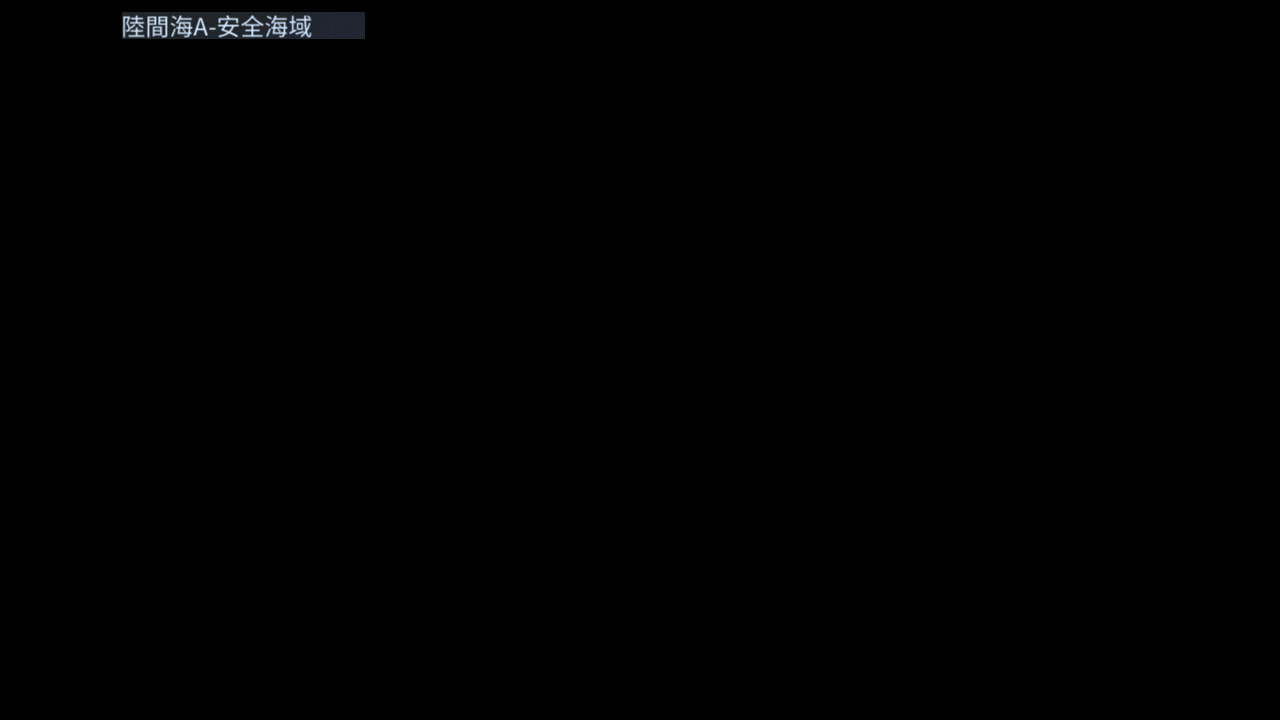
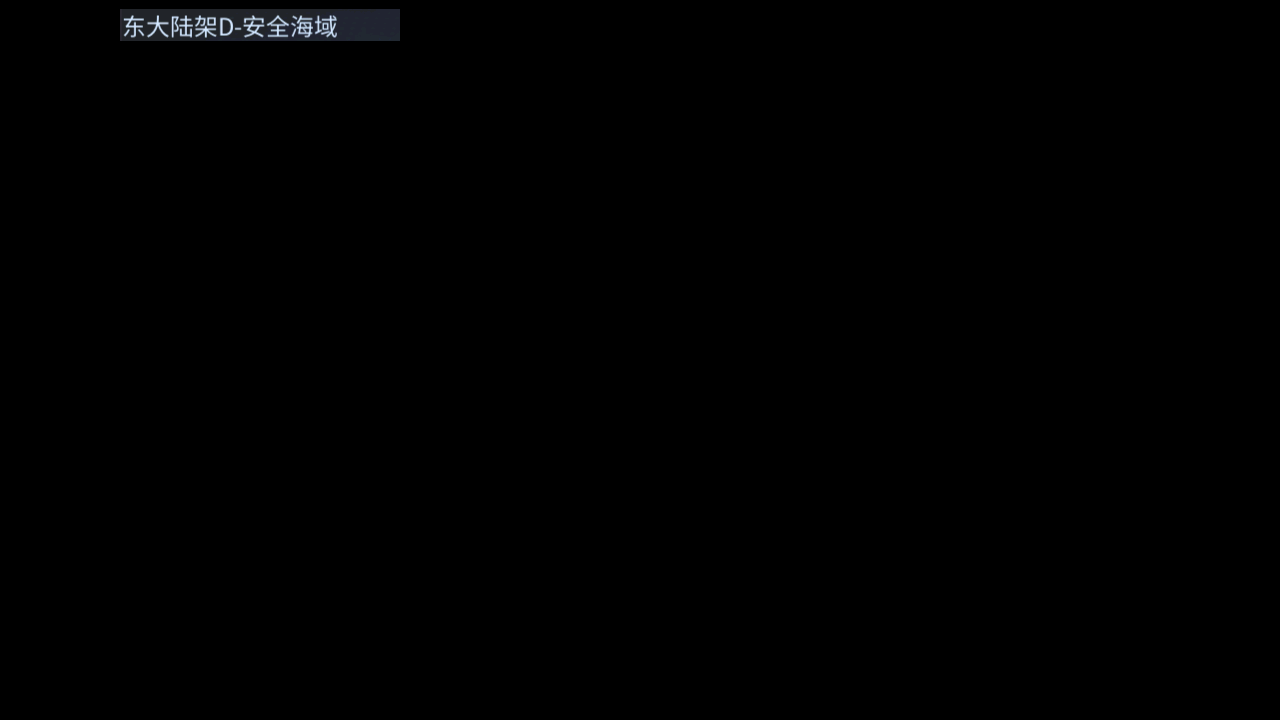
Fix: [TW] MAP_NAME, it should as long as CN

Changed region(s): [[0.0938, 0.0, 0.3125, 0.0611]]

diff --git a/module/os/assets.py b/module/os/assets.py
@@ -15,7 +15,7 @@ GLOBE_GOTO_MAP = Button(area={'cn': (37, 29, 83, 75), 'en': (37, 29, 83, 75), 'j
 MAP_EXIT = Button(area={'cn': (1147, 637, 1280, 699), 'en': (1148, 641, 1280, 699), 'jp': (1147, 637, 1280, 699), 'tw': (1147, 639, 1280, 703)}, color={'cn': (47, 35, 42), 'en': (32, 20, 20), 'jp': (58, 34, 34), 'tw': (55, 46, 43)}, button={'cn': (1147, 637, 1280, 699), 'en': (1148, 641, 1280, 699), 'jp': (1147, 637, 1280, 699), 'tw': (1147, 639, 1280, 703)}, file={'cn': './assets/cn/os/MAP_EXIT.png', 'en': './assets/en/os/MAP_EXIT.png', 'jp': './assets/jp/os/MAP_EXIT.png', 'tw': './assets/tw/os/MAP_EXIT.png'})
 MAP_GOTO_GLOBE = Button(area={'cn': (1069, 641, 1260, 695), 'en': (1069, 641, 1260, 691), 'jp': (1064, 636, 1265, 699), 'tw': (1069, 641, 1260, 694)}, color={'cn': (212, 140, 140), 'en': (212, 140, 140), 'jp': (207, 132, 132), 'tw': (213, 143, 143)}, button={'cn': (1069, 641, 1260, 695), 'en': (1069, 641, 1260, 691), 'jp': (1064, 636, 1265, 699), 'tw': (1069, 641, 1260, 694)}, file={'cn': './assets/cn/os/MAP_GOTO_GLOBE.png', 'en': './assets/en/os/MAP_GOTO_GLOBE.png', 'jp': './assets/jp/os/MAP_GOTO_GLOBE.png', 'tw': './assets/tw/os/MAP_GOTO_GLOBE.png'})
 MAP_GOTO_GLOBE_FOG = Button(area={'cn': (1074, 644, 1114, 691), 'en': (1074, 644, 1114, 691), 'jp': (1074, 644, 1114, 691), 'tw': (1074, 644, 1114, 691)}, color={'cn': (50, 34, 32), 'en': (50, 34, 32), 'jp': (50, 34, 32), 'tw': (50, 34, 32)}, button={'cn': (1074, 644, 1114, 691), 'en': (1074, 644, 1114, 691), 'jp': (1074, 644, 1114, 691), 'tw': (1074, 644, 1114, 691)}, file={'cn': './assets/cn/os/MAP_GOTO_GLOBE_FOG.png', 'en': './assets/en/os/MAP_GOTO_GLOBE_FOG.png', 'jp': './assets/jp/os/MAP_GOTO_GLOBE_FOG.png', 'tw': './assets/tw/os/MAP_GOTO_GLOBE_FOG.png'})
-MAP_NAME = Button(area={'cn': (120, 9, 400, 41), 'en': (116, 6, 549, 39), 'jp': (115, 14, 421, 41), 'tw': (122, 12, 365, 39)}, color={'cn': (60, 66, 77), 'en': (43, 50, 60), 'jp': (94, 104, 120), 'tw': (68, 75, 86)}, button={'cn': (120, 9, 400, 41), 'en': (116, 6, 549, 39), 'jp': (115, 14, 421, 41), 'tw': (122, 12, 365, 39)}, file={'cn': './assets/cn/os/MAP_NAME.png', 'en': './assets/en/os/MAP_NAME.png', 'jp': './assets/jp/os/MAP_NAME.png', 'tw': './assets/tw/os/MAP_NAME.png'})
+MAP_NAME = Button(area={'cn': (120, 9, 400, 41), 'en': (116, 6, 549, 39), 'jp': (115, 14, 421, 41), 'tw': (120, 9, 400, 41)}, color={'cn': (60, 66, 77), 'en': (43, 50, 60), 'jp': (94, 104, 120), 'tw': (60, 66, 77)}, button={'cn': (120, 9, 400, 41), 'en': (116, 6, 549, 39), 'jp': (115, 14, 421, 41), 'tw': (120, 9, 400, 41)}, file={'cn': './assets/cn/os/MAP_NAME.png', 'en': './assets/en/os/MAP_NAME.png', 'jp': './assets/jp/os/MAP_NAME.png', 'tw': './assets/tw/os/MAP_NAME.png'})
 MEOWFFICER_SEARCHING = Button(area={'cn': (172, 606, 220, 619), 'en': (172, 607, 221, 616), 'jp': (173, 606, 220, 619), 'tw': (173, 605, 221, 619)}, color={'cn': (67, 131, 149), 'en': (75, 132, 150), 'jp': (76, 138, 158), 'tw': (78, 152, 173)}, button={'cn': (172, 606, 220, 619), 'en': (172, 607, 221, 616), 'jp': (173, 606, 220, 619), 'tw': (173, 605, 221, 619)}, file={'cn': './assets/cn/os/MEOWFFICER_SEARCHING.png', 'en': './assets/en/os/MEOWFFICER_SEARCHING.png', 'jp': './assets/jp/os/MEOWFFICER_SEARCHING.png', 'tw': './assets/tw/os/MEOWFFICER_SEARCHING.png'})
 MEOWFFICER_SEARCHING_PERCENTAGE = Button(area={'cn': (144, 621, 223, 623), 'en': (144, 621, 223, 623), 'jp': (144, 621, 223, 623), 'tw': (144, 621, 223, 623)}, color={'cn': (52, 167, 190), 'en': (52, 167, 190), 'jp': (52, 167, 190), 'tw': (52, 167, 190)}, button={'cn': (144, 621, 223, 623), 'en': (144, 621, 223, 623), 'jp': (144, 621, 223, 623), 'tw': (144, 621, 223, 623)}, file={'cn': './assets/cn/os/MEOWFFICER_SEARCHING_PERCENTAGE.png', 'en': './assets/en/os/MEOWFFICER_SEARCHING_PERCENTAGE.png', 'jp': './assets/jp/os/MEOWFFICER_SEARCHING_PERCENTAGE.png', 'tw': './assets/tw/os/MEOWFFICER_SEARCHING_PERCENTAGE.png'})
 SELECT_ABYSSAL = Button(area={'cn': (89, 251, 167, 269), 'en': (93, 254, 161, 268), 'jp': (89, 251, 167, 269), 'tw': (88, 250, 167, 270)}, color={'cn': (107, 110, 112), 'en': (100, 103, 104), 'jp': (115, 118, 119), 'tw': (98, 101, 102)}, button={'cn': (89, 251, 167, 269), 'en': (93, 254, 161, 268), 'jp': (89, 251, 167, 269), 'tw': (88, 250, 167, 270)}, file={'cn': './assets/cn/os/SELECT_ABYSSAL.png', 'en': './assets/en/os/SELECT_ABYSSAL.png', 'jp': './assets/jp/os/SELECT_ABYSSAL.png', 'tw': './assets/tw/os/SELECT_ABYSSAL.png'})
